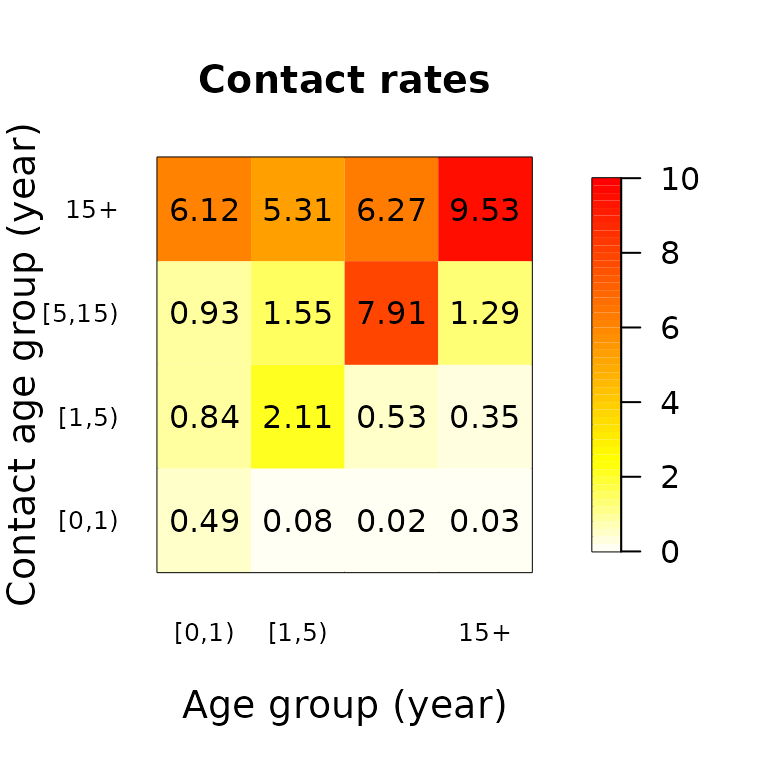
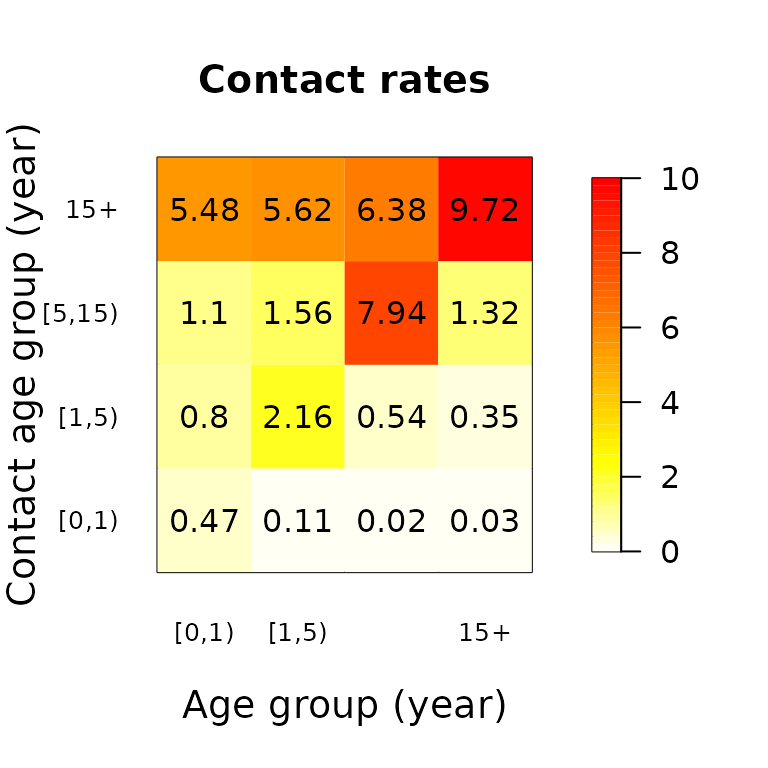
Deploying to gh-pages from @ epiforecasts/socialmixr@cffe53411ec712fbb95aba2e9b2dcfab1efdce89 🚀

diff --git a/articles/socialmixr.html b/articles/socialmixr.html
@@ -72,7 +72,7 @@
                         <h4 data-toc-skip class="author">Sebastian
 Funk</h4>
             
-            <h4 data-toc-skip class="date">2023-09-05</h4>
+            <h4 data-toc-skip class="date">2023-10-18</h4>
       
       <small class="dont-index">Source: <a href="https://github.com/epiforecasts/socialmixr/blob/HEAD/vignettes/socialmixr.Rmd" class="external-link"><code>vignettes/socialmixr.Rmd</code></a></small>
       <div class="d-none name"><code>socialmixr.Rmd</code></div>
@@ -225,10 +225,10 @@ be obtained, for example the mean:</p>
 <span><span class="va">mr</span></span>
 <span><span class="co">#&gt;          contact.age.group</span></span>
 <span><span class="co">#&gt; age.group      [0,1)     [1,5)   [5,15)      15+</span></span>
-<span><span class="co">#&gt;    [0,1)  0.49437229 0.8417316 0.932987 6.117922</span></span>
-<span><span class="co">#&gt;    [1,5)  0.08143605 2.1127494 1.553143 5.311080</span></span>
-<span><span class="co">#&gt;    [5,15) 0.02141382 0.5256201 7.910828 6.270709</span></span>
-<span><span class="co">#&gt;    15+    0.03173221 0.3524735 1.290779 9.527119</span></span></code></pre></div>
+<span><span class="co">#&gt;    [0,1)  0.47007576 0.8034848 1.097803 5.476439</span></span>
+<span><span class="co">#&gt;    [1,5)  0.11034408 2.1640263 1.557961 5.623145</span></span>
+<span><span class="co">#&gt;    [5,15) 0.01718184 0.5407513 7.935555 6.377674</span></span>
+<span><span class="co">#&gt;    15+    0.03278032 0.3476526 1.320934 9.723946</span></span></code></pre></div>
 </div>
 <div class="section level2">
 <h2 id="demography">Demography<a class="anchor" aria-label="anchor" href="#demography"></a>

diff --git a/news/index.html b/news/index.html
@@ -62,6 +62,7 @@
 <li>More generous filename checks now pass files named e.g. “…_participants_common…” an not only “…participant_common…”</li>
 <li>The package now sets a custom user agent when downloading survey data (<a href="https://github.com/epiforecasts/socialmixr/issues/82" class="external-link">#82</a>).</li>
 <li>A problem was fixed where attempted joins of files could lead to blowing up memeory use (<a href="https://github.com/epiforecasts/socialmixr/issues/75" class="external-link">#75</a>).</li>
+<li>A problem was fixed where the updated Zenodo API caused downloading to fail (<a href="https://github.com/epiforecasts/socialmixr/issues/91" class="external-link">#91</a>).</li>
 </ul></div>
 </div>
     <div class="section level2">
